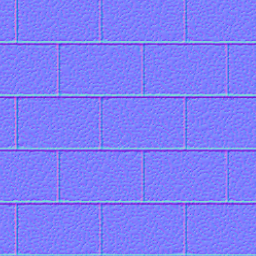
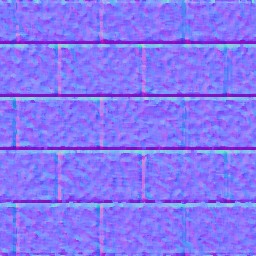
Added GUI effect Added GUI renderer Change normal map for floor and walls Rendering Start menu

diff --git a/component/rendering/rendering.cpp b/component/rendering/rendering.cpp
@@ -10,6 +10,7 @@ Renderer::Renderer()
 {
 	m_bInitComplete = 0;
 	m_Window = 0;
+	m_nSplitScreen = 1;
 	m_fTime = 0;
 
 	m_pMailbox = new Events::Mailbox();
@@ -132,8 +133,13 @@ int Renderer::setup()
 	if( !m_eftMesh.program )
 		exit(5);
 
+	m_eftGUI = glhLoadEffect( "component/rendering/VShaderGUI.glsl", NULL, "component/rendering/PShaderGUI.glsl", 0, 0 );
+	if( !m_eftGUI.program )
+		exit(5);
+
 	glhCreateBuffer( m_eftMesh, "cstPerMesh", sizeof(cstPerMesh), &m_bufPerMesh );
 	glhCreateBuffer( m_eftMesh, "cstPerFrame", sizeof(cstPerFrame), &m_bufPerFrame );
+	glhCreateBuffer( m_eftGUI, "cstGUI", sizeof(cstGUI), &m_bufGUI );
 	
 	{
 		GLchar* pData;
@@ -177,7 +183,7 @@ int Renderer::setup()
 		exit(15);
 	if( !glhLoadTexture( m_difArenaFloor, "assets/arena_floor_diff.png" ) )
 		exit(16);
-	if( !glhLoadTexture( m_nrmArenaFloor, "assets/blank_norm.png" ) )
+	if( !glhLoadTexture( m_nrmArenaFloor, "assets/arena_floor_norm.png" ) )
 		exit(17);
 
 	if( !LoadMesh( m_mshArenaTops, "assets/arena_tops.msh" ) )
@@ -187,44 +193,44 @@ int Renderer::setup()
 	if( !glhLoadTexture( m_nrmArenaTops, "assets/blank_norm.png" ) )
 		exit(20);
 
-	
-
 	if( !LoadMesh( m_mshBullet, "assets/Bullet.msh" ) )
 		exit(21);
-
 	
 	if( !LoadMesh( m_mshKart, "assets/Kart.msh" ) )
 		exit(21);
-	
 	if( !LoadMesh( m_mshKartTire, "assets/Kart_tire.msh" ) )
 		exit(21);
 	
 	if( !LoadMesh( m_mshPowerSphere, "assets/PowerSphere.msh" ) )
 		exit(22);
-	
 	if( !LoadMesh( m_mshPowerRing1, "assets/PowerRing1.msh" ) )
 		exit(23);
-	
 	if( !LoadMesh( m_mshPowerRing2, "assets/PowerRing2.msh" ) )
 		exit(24);
+
+	Real fHeight = 200.0f;
+	Real fWidth = 300.0f;
+	GLvertex aryStart[] = 
+	{ 
+		GLvertex( Vector3( -fWidth, -fHeight, 0 ), Vector2( 0, 1 ) ),
+		GLvertex( Vector3( -fWidth,  fHeight, 0 ), Vector2( 0, 0 ) ),
+		GLvertex( Vector3(  fWidth, -fHeight, 0 ), Vector2( 1, 1 ) ),
+
+		GLvertex( Vector3( -fWidth,  fHeight, 0 ), Vector2( 0, 0 ) ),
+		GLvertex( Vector3(  fWidth,  fHeight, 0 ), Vector2( 1, 0 ) ),
+		GLvertex( Vector3(  fWidth, -fHeight, 0 ), Vector2( 1, 1 ) ),
+	};
+
+	if( !glhCreateGUI( m_mshGUIStart, aryStart, 6 ) )
+		exit(25);
+	if( !glhLoadTexture( m_texGUIStart, "assets/KartStartScreen.png" ) )
+		exit(14);
 	
 	glhMapTexture( m_eftMesh, "g_texDiffuse", 0 );
 	glhMapTexture( m_eftMesh, "g_texNormal", 1 );
+	glhMapTexture( m_eftGUI, "g_texDiffuse", 0 );
 
 	m_bInitComplete = 1;
-
-	// Safe to delete?
-	/*
-	GetState().Karts[1].vPos = Vector3( 10,1.5,10 );							// These two lines are temporary
-	GetState().Karts[1].qOrient.Identity().RotateAxisAngle(Vector3(0,1,0), DEGTORAD(-90));
-
-	
-	GetState().Karts[2].vPos = Vector3( -10,1.5,10 );							// These two lines are temporary
-	GetState().Karts[2].qOrient.Identity().RotateAxisAngle(Vector3(0,1,0), DEGTORAD(90));
-	
-	GetState().Karts[3].vPos = Vector3( 10, 1.5, -10 );							// These two lines are temporary
-	GetState().Karts[3].qOrient.Identity().RotateAxisAngle(Vector3(0,1,0), DEGTORAD(180));
-	*/
 
 	atStartMenu = true;
 	
@@ -263,12 +269,18 @@ Vector4 getNextColor()
 }
 
 bool player_kart_found = false;
-int Renderer::update( float fElapseSec )
+int Renderer::render( float fElapseSec )
 {
 	m_fTime += fElapseSec;
 
 	if( !m_bInitComplete )
 		return 0;
+
+	cstPerMesh& perMesh = *(cstPerMesh*)m_bufPerMesh.data;
+	cstPerFrame& perFrame = *(cstPerFrame*)m_bufPerFrame.data;
+
+	Int32 nWinWidth, nWinHeight;
+	SDL_GetWindowSize( m_Window, &nWinWidth, &nWinHeight );
 
 	std::vector<Entities::CarEntity::Camera> cameras;
 	for( Events::Event *event : m_pMailbox->checkMail() )
@@ -357,9 +369,6 @@ int Renderer::update( float fElapseSec )
 	}
 	m_pMailbox->emptyMail();
 
-	Int32 nWinWidth, nWinHeight;
-	SDL_GetWindowSize( m_Window, &nWinWidth, &nWinHeight );
-	cstPerFrame& perFrame = *(cstPerFrame*)m_bufPerFrame.data;
 	for (Entities::CarEntity::Camera camera : cameras) {
 		Vector3 vFocus = camera.vFocus;
 		perFrame.vEyePos = camera.vPos;
@@ -368,7 +377,7 @@ int Renderer::update( float fElapseSec )
 		perFrame.matView.LookAt( perFrame.vEyePos.xyz(), vFocus, Vector3( 0, 1, 0 ) );
 		perFrame.matViewProj = perFrame.matView * perFrame.matProj;
 	}
-
+	
 	if(atStartMenu)		// Manually set camera to look over the entire level, ignoring the kart cameras
 	{
 		Vector3 vFocus = Vector3(0,-0.8,0);
@@ -378,7 +387,7 @@ int Renderer::update( float fElapseSec )
 		perFrame.matView.LookAt( perFrame.vEyePos.xyz(), vFocus, Vector3( 0, 1, 0 ) );
 		perFrame.matViewProj = perFrame.matView * perFrame.matProj;
 	}
-
+	
 	glClearColor( 59/255.0, 68/255.0, 75/255.0, 1 );
 	glClear( GL_COLOR_BUFFER_BIT | GL_DEPTH_BUFFER_BIT );
 
@@ -398,19 +407,8 @@ int Renderer::update( float fElapseSec )
 	perFrame.vLight[8] = Vector4( -fLightDist, fLightHeight, -fLightDist, fLightPower );
 	perFrame.vLight[9] = Vector4( -SIN( m_fTime ) * fSpinRadius, 2, -COS( m_fTime ) * fSpinRadius, fLightPower );
 
-	return 1;
-}
 
-int Renderer::render()
-{
-	if( !m_bInitComplete )
-		return 0;
-
-	cstPerMesh& perMesh = *(cstPerMesh*)m_bufPerMesh.data;
-	cstPerFrame& perFrame = *(cstPerFrame*)m_bufPerFrame.data;
-
-	Int32 nWinWidth, nWinHeight;
-	SDL_GetWindowSize( m_Window, &nWinWidth, &nWinHeight );
+	// START RENDERING
 
 	for( Int32 i = 0; i < 1; i++ )
 	{	
@@ -520,6 +518,27 @@ int Renderer::render()
 		// I had to resort to void* and cast it back in the update event handler. Seems like a lot of trouble to me, but I couldn't figure out how to do it in c++, lol.
 		// In any case, keep in mind that currently the list pointer is passed each step in the physics. Doesn't seem like too much overhead.
 	}
+
+	// GUI TEST
+	glClear( GL_DEPTH_BUFFER_BIT );
+
+	Matrix matOrtho;
+	matOrtho.Orthographic( 0, nWinWidth, 0, nWinHeight, -1, 1 );
+
+	cstGUI& guidata = *(cstGUI*)m_bufGUI.data;
+	guidata.matWorldViewProj = matOrtho;
+	glhUpdateBuffer( m_eftGUI, m_bufGUI );
+
+	glEnable( GL_BLEND );
+	glBlendFunc( GL_SRC_ALPHA, GL_ONE_MINUS_SRC_ALPHA );
+
+	if(atStartMenu)
+	{
+		glhEnableTexture( m_texGUIStart );
+		glhDrawMesh( m_eftGUI, m_mshGUIStart );
+	}
+
+	glDisable( GL_BLEND );
 
 	SDL_GL_SwapWindow( m_Window );
 

diff --git a/component/rendering/glhelpers.cpp b/component/rendering/glhelpers.cpp
@@ -144,9 +144,9 @@ GLuint glhCompileShader( GLuint uType, GLsizei nSourceCount, GLchar** arySourceD
 	glGetShaderiv( shader, GL_COMPILE_STATUS, &result );
 	if( result == GL_FALSE )
 	{
-		GLchar strError[4096];
+		GLchar strError[99999];
 		GLsizei nLogSize;
-		glGetShaderInfoLog( shader, 4096, &nLogSize, strError );
+		glGetShaderInfoLog( shader, 99999, &nLogSize, strError );
 		DEBUGOUT( "%s\n", strError );
 		glDeleteShader( shader );
 		return 0;
@@ -232,7 +232,7 @@ int glhCreateBuffer( const GLeffect& effect, const GLchar* strBuffer, GLint nSiz
 		if( pBuffer->location == effect.blocks[i*2] )
 		{
 			pBuffer->base = i*2+1;
-//			glBindBufferBase( GL_UNIFORM_BUFFER, effect.blocks[i*2+1], pBuffer->buffer );
+			glBindBufferBase( GL_UNIFORM_BUFFER, effect.blocks[i*2+1], pBuffer->buffer );
 			break;
 		}
 	}
@@ -242,9 +242,9 @@ int glhCreateBuffer( const GLeffect& effect, const GLchar* strBuffer, GLint nSiz
 
 int glhUpdateBuffer( const GLeffect& effect, const GLbuffer& buffer )
 {
+	glUseProgram( effect.program );
 	glBindBuffer( GL_UNIFORM_BUFFER, buffer.buffer );
-//	glBufferData( GL_UNIFORM_BUFFER, buffer.size, buffer.data, GL_DYNAMIC_DRAW );
-	glBufferSubData( GL_UNIFORM_BUFFER, 0, buffer.size, buffer.data );
+	glBufferData( GL_UNIFORM_BUFFER, buffer.size, buffer.data, GL_DYNAMIC_DRAW );
 	glBindBufferBase( GL_UNIFORM_BUFFER, effect.blocks[buffer.base], buffer.buffer );
 
 	return 1;
@@ -280,13 +280,35 @@ int glhCreateMesh( GLmesh& glmesh, const SEG::Mesh& meshdata )
 	return 1;
 }
 
+int glhCreateGUI( GLmesh& glmesh, const GLvertex* aryVertices, const GLint nCount )
+{
+	glGenVertexArrays( 1, &glmesh.vao ); 
+    glBindVertexArray( glmesh.vao );
+
+	glGenBuffers( 1, &glmesh.vbuffer );
+	glBindBuffer( GL_ARRAY_BUFFER, glmesh.vbuffer );
+	glBufferData( GL_ARRAY_BUFFER, nCount * sizeof(GLvertex), aryVertices, GL_STATIC_DRAW );
+
+	glmesh.vstride = sizeof(GLvertex);
+	glmesh.icount = nCount;
+	glmesh.type = 10;
+
+	glhPredefinedVertexLayout( 10 );
+
+	glBindVertexArray( 0 );
+
+	return 1;
+}
+
 int glhDrawMesh( const GLeffect& gleffect, const GLmesh& glmesh )
 {
 	glUseProgram( gleffect.program );
 	glBindVertexArray( glmesh.vao );
-	glDrawElements( GL_TRIANGLES, glmesh.icount, GL_UNSIGNED_SHORT, (void*)0 );
+	if( glmesh.type == 10 )
+		glDrawArrays( GL_TRIANGLES, 0, glmesh.icount );
+	else
+		glDrawElements( GL_TRIANGLES, glmesh.icount, GL_UNSIGNED_SHORT, (void*)0 );
 	glBindVertexArray( 0 );
-
 	return 1;
 }
 
@@ -316,6 +338,14 @@ void glhPredefinedVertexLayout( Int32 nType )
 		glVertexAttribPointer( 1, 2, GL_FLOAT,			GL_FALSE, sizeof(SEG::VertexSS), (void*)8 );
 		glVertexAttribPointer( 2, 4, GL_UNSIGNED_BYTE,	GL_FALSE, sizeof(SEG::VertexSS), (void*)16 );
 		glVertexAttribPointer( 3, 4, GL_SHORT,			GL_FALSE, sizeof(SEG::VertexSS), (void*)20 );
+		break;
+	case 10:
+		glEnableVertexAttribArray( 0 );
+		glEnableVertexAttribArray( 1 );
+		glDisableVertexAttribArray( 2 );
+		glDisableVertexAttribArray( 3 );
+		glVertexAttribPointer( 0, 3, GL_FLOAT,	GL_FALSE, sizeof(GLvertex), (void*)0 );
+		glVertexAttribPointer( 1, 2, GL_FLOAT,	GL_FALSE, sizeof(GLvertex), (void*)12 );
 		break;
 	};
 }
@@ -372,6 +402,7 @@ int glhEnableTexture( GLtex& gltex, int nIndex )
 
 void glhMapTexture( GLeffect& gleft, char* strName, int nIndex )
 {
+	glUseProgram( gleft.program );
 	GLint texLoc;
 	texLoc = glGetUniformLocation( gleft.program, strName );
 	glUniform1i( texLoc, nIndex );

diff --git a/component/rendering/glhelpers.h b/component/rendering/glhelpers.h
@@ -36,6 +36,19 @@ struct GLtex
 	GLuint	id;
 };
 
+struct GLvertex
+{
+	Vector3 vPos;
+	Vector2 vTex;
+
+	GLvertex() {}
+	GLvertex( const Vector3& vPosI, const Vector2& vTexI )
+	{
+		vPos = vPosI;
+		vTex = vTexI;
+	}
+};
+
 GLeffect glhLoadEffect( const char* strVertexShader,
 						const char* strGeometryShader,
 						const char* strPixelShader,
@@ -54,6 +67,7 @@ int glhUpdateBuffer( const GLeffect& effect, const GLbuffer& buffer );
 void glhDestroyBuffer( GLbuffer& buffer );
 
 int glhCreateMesh( GLmesh& glmesh, const SEG::Mesh& meshdata );
+int glhCreateGUI( GLmesh& glmesh, const GLvertex* aryVertices, const GLint nCount );
 int glhDrawMesh( const GLeffect& gleffect, const GLmesh& glmesh );
 void glhDestroyMesh( GLmesh& glmesh );
 

diff --git a/component/rendering/rendering.h b/component/rendering/rendering.h
@@ -18,11 +18,15 @@ private:
 	SDL_Window*			m_Window;
 	Events::Mailbox*	m_pMailbox;
 
+	Int32				m_nSplitScreen;
+
 	Real				m_fTime;
 
 	GLeffect			m_eftMesh;
+	GLeffect			m_eftGUI;
 	GLbuffer			m_bufPerMesh;
 	GLbuffer			m_bufPerFrame;
+	GLbuffer			m_bufGUI;
 
 
 	// Arena
@@ -54,6 +58,8 @@ private:
 	GLmesh				m_mshPowerRing2;
 	GLmesh				m_mshPowerSphere;
 
+	GLmesh				m_mshGUIStart;
+	GLtex				m_texGUIStart;
 
 	Vector3				m_vArenaOfs;
 
@@ -80,8 +86,7 @@ private:
 
 public:
 	int setup();
-	int update( float fElapseSec );
-	int render();
+	int render( float fElapseSec );
 
 	Renderer();
 	~Renderer();

diff --git a/Standard.h b/Standard.h
@@ -22,7 +22,7 @@
 #include <Windows.h>
 
 #include <crtdbg.h>
-#define DEBUGOUT( str, ... ) { char out[4096]; sprintf_s( out, 4096, str, ##__VA_ARGS__ ); OutputDebugString( out ); }
+#define DEBUGOUT( str, ... ) { char out[99999]; sprintf_s( out, 99999, str, ##__VA_ARGS__ ); OutputDebugString( out ); }
 //#define DEBUGOUT( str, ... ) {}
 
 #ifdef _DEBUG

diff --git a/main.cpp b/main.cpp
@@ -50,8 +50,7 @@ int main( int argc, char** argv )
 		simulation->step(elapsed_time);
 
 		//audio->update(elapsed_time);
-		renderer->update(elapsed_time);
-		renderer->render();
+		renderer->render(elapsed_time);
 	}
 	
 	// -- Cleanup & Exit ------------------------------------------------------

diff --git a/component/rendering/ShaderStructs.h b/component/rendering/ShaderStructs.h
@@ -24,4 +24,9 @@ struct cstPerFrame
 	Vector4 vLight[MAX_LIGHTS];
 };
 
+struct cstGUI
+{
+	Matrix matWorldViewProj;
+};
+
 #endif
